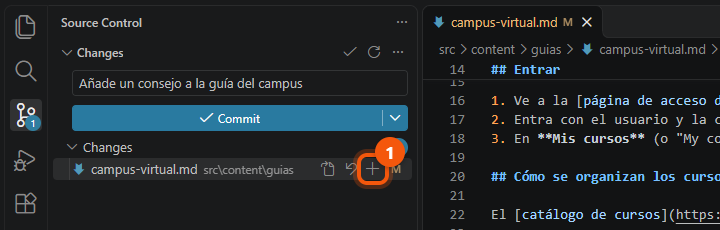
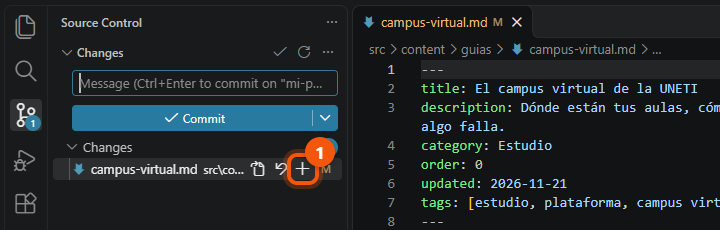
docs: address the review of the Git guide
- Use one example throughout, matching the screenshots.
- Replace the pull request screenshots with ones taken from a fork.
- Add a note and a name table for VS Code in Spanish.
- Explain how to edit a guide safely: Markdown, the frontmatter and
  the side preview, with a new screenshot.
- Install VS Code before Git, add the git push equivalent and fix
  smaller wording issues.

diff --git a/src/content/guias/git-y-github-desde-cero.md b/src/content/guias/git-y-github-desde-cero.md
@@ -55,7 +55,15 @@ Y al revés: `git pull` trae a tu carpeta lo que otras personas hayan subido.
 
 ## Lo que necesitas
 
-### 1. Git
+### 1. Visual Studio Code
+
+Entra en [code.visualstudio.com/download](https://code.visualstudio.com/download), descarga la versión para tu sistema e instálala con las opciones por defecto.
+
+![Página de descarga de Visual Studio Code con el botón de Windows resaltado](../../assets/guias/git/descarga-vscode.png)
+
+*Es gratuito. No lo confundas con «Visual Studio», que es otro programa.*
+
+### 2. Git
 
 Entra en [git-scm.com/install/windows](https://git-scm.com/install/windows) y pulsa **Click here to download**.
 
@@ -65,7 +73,7 @@ Entra en [git-scm.com/install/windows](https://git-scm.com/install/windows) y pu
 
 Abre el instalador. Casi todas las pantallas se dejan como vienen: pulsa **Next**. Fíjate en dos:
 
-- **Choosing the default editor:** elige **Use Visual Studio Code as Git's default editor**.
+- **Choosing the default editor:** elige **Use Visual Studio Code as Git's default editor**. Por eso instalamos VS Code primero.
 - **Choose a credential helper:** deja marcado **Git Credential Manager**. Es lo que guarda tu sesión de GitHub.
 
 ![Instalador de Git en la pantalla «Choose a credential helper», con Git Credential Manager marcado](../../assets/guias/git/instalador-git.png)
@@ -73,14 +81,6 @@ Abre el instalador. Casi todas las pantallas se dejan como vienen: pulsa **Next*
 *Captura: proyecto [Git Credential Manager](https://github.com/git-ecosystem/git-credential-manager), licencia MIT.*
 
 > **macOS y Linux:** en macOS, abre la Terminal y escribe `git --version`; si no está instalado, el sistema te ofrecerá instalarlo. En Linux, usa el gestor de paquetes, por ejemplo `sudo apt install git`.
-
-### 2. Visual Studio Code
-
-Entra en [code.visualstudio.com/download](https://code.visualstudio.com/download), descarga la versión para tu sistema e instálala con las opciones por defecto.
-
-![Página de descarga de Visual Studio Code con el botón de Windows resaltado](../../assets/guias/git/descarga-vscode.png)
-
-*Es gratuito. No lo confundas con «Visual Studio», que es otro programa.*
 
 ### 3. Una cuenta de GitHub
 
@@ -90,13 +90,24 @@ Entra en [code.visualstudio.com/download](https://code.visualstudio.com/download
 
 *Correo (1), contraseña (2) y usuario (3); luego, **Create account** (4). El registro es gratuito.*
 
-2. Activa la **verificación en dos pasos** en **Settings → Password and authentication**. GitHub la exige para contribuir, y protege tu cuenta.
+2. Activa la **verificación en dos pasos** en **Settings → Password and authentication**. GitHub te la pedirá cuando empieces a subir código, y protege tu cuenta.
 
 ![Sección «Two-factor authentication» de los ajustes de GitHub, con la app de autenticación configurada](../../assets/guias/git/verificacion-dos-pasos.png)
 
-*Elige «Authenticator app» y usa una app como Google Authenticator o Authy. Cuando está activa, aparece «Enabled».*
+*Si aún no la tienes, verás el botón **Enable two-factor authentication**. Elige «Authenticator app» y usa una app como Google Authenticator o Authy. Así se ve cuando ya está activa.*
 
 ## Conoce VS Code
+
+> **VS Code en español.** La primera vez que lo abras, VS Code puede ofrecerte instalar el paquete de idioma español. Te recomendamos dejarlo en inglés: las capturas de esta guía y casi toda la documentación están en inglés. Si ya lo tienes en español, estos son los nombres que verás:
+>
+> | En inglés | En español |
+> | --- | --- |
+> | Source Control | Control de código fuente |
+> | Changes / Staged Changes | Cambios / Cambios almacenados provisionalmente |
+> | Commit | Confirmar |
+> | Publish Branch / Sync Changes | Publicar rama / Sincronizar cambios |
+> | Create new branch... | Crear nueva rama... |
+> | Clone Git Repository... | Clonar repositorio Git... |
 
 Solo vas a usar cuatro partes de la ventana:
 
@@ -180,7 +191,7 @@ Un **pull request** (PR) es la propuesta que haces para que tus cambios entren e
 
 ## Práctica: tu primera contribución
 
-Vas a proponer un cambio pequeño a una guía de esta web: corregir una errata o añadir un dato útil. Todo desde VS Code.
+Vas a proponer un cambio pequeño a una guía de esta web. En el ejemplo, añadimos un consejo al final de la guía del campus virtual; tú puedes corregir una errata o añadir un dato útil en la guía que prefieras. Todo desde VS Code.
 
 ### 1. Clona el repositorio
 
@@ -220,7 +231,7 @@ Escribe un nombre corto, en minúsculas y con guiones, y pulsa `Enter`:
 
 ![Cuadro de VS Code con el nombre de la rama mi-primer-cambio escrito](../../assets/guias/git/vsc-rama-nombre.png)
 
-*Un buen nombre dice qué vas a hacer: `corrige-enlace-campus`.*
+*Para tus próximos cambios, usa nombres que digan qué haces, como `corrige-enlace-campus`.*
 
 La barra inferior ahora muestra tu rama. Todo lo que hagas desde aquí queda en ella.
 
@@ -234,7 +245,16 @@ En la terminal: `git switch -c mi-primer-cambio`
 
 ### 3. Haz tu cambio
 
-En el explorador, abre `src/content/guias/` y luego la guía que quieres mejorar. Haz tu cambio y guarda con `Ctrl+S`.
+En el explorador, abre `src/content/guias/` y luego la guía que quieres mejorar. Las guías están escritas en **Markdown**, un formato de texto sencillo: `**negrita**`, `## Título`, `- lista` y `[texto](enlace)`.
+
+![VS Code con una guía abierta: el encabezado entre líneas --- señalado a la izquierda y la vista previa a la derecha](../../assets/guias/git/vsc-markdown.png)
+
+*Pulsa `Ctrl+K` y luego `V` para ver la vista previa al lado mientras escribes.*
+
+1. **El encabezado** (entre las dos líneas `---`) son los datos de la guía. No lo toques, salvo para poner la fecha de hoy en `updated`.
+2. **La vista previa** muestra cómo quedará el texto. Si algo se ve raro ahí, también se verá raro en la web.
+
+Haz tu cambio debajo del encabezado y guarda con `Ctrl+S`. Para crear una guía nueva, sigue las [instrucciones para contribuir](https://github.com/Sethprie/uneti-web/blob/master/CONTRIBUTING.md).
 
 Ve al panel de **Control de código fuente**. Tu archivo aparece en **Changes**, con una **M** de «modificado».
 
@@ -258,13 +278,13 @@ En la terminal, `git status` te dice lo mismo:
 
 ![Panel de control de código fuente con el mensaje del commit escrito y el botón Commit resaltado](../../assets/guias/git/vsc-commit.png)
 
-*Un buen mensaje dice qué cambia: «Corrige el enlace del campus».*
+*Un buen mensaje dice qué cambia, en pocas palabras: «Añade un consejo a la guía del campus».*
 
 En la terminal:
 
 ```sh
 git add src/content/guias/campus-virtual.md
-git commit -m "Corrige el enlace del campus"
+git commit -m "Añade un consejo a la guía del campus"
 ```
 
 ### 5. Publica tu rama
@@ -287,25 +307,27 @@ Como no tienes permiso para subir al proyecto original, VS Code te ofrece crear 
 
 *Solo pasa la primera vez. Las siguientes, tu rama va directa a tu fork.*
 
+En la terminal: `git push -u origin mi-primer-cambio`. Ojo: este comando **no crea el fork**. Úsalo solo cuando VS Code ya lo haya creado, o para subir cambios nuevos después.
+
 ### 6. Abre el pull request
 
 Cuando el fork está listo, VS Code te avisa. Pulsa **Create PR**.
 
 ![Aviso de VS Code: el fork tu-usuario/uneti-web se creó, con el botón Create PR resaltado](../../assets/guias/git/vsc-fork-creado.png)
 
-*Si cerraste el aviso, entra en tu fork en GitHub: verás un botón amarillo «Compare & pull request».*
+*Si cerraste el aviso, entra en tu fork en GitHub: verás una franja amarilla con el botón verde **Compare & pull request**.*
 
 Se abre GitHub en el navegador. Revisa el título, explica en la descripción qué cambiaste y por qué, y pulsa **Create pull request**.
 
-![Página de GitHub para abrir un pull request, con el título y el botón «Create pull request» resaltados](../../assets/guias/git/abrir-pull-request.png)
+![Página de GitHub para abrir un pull request desde tu fork hacia Sethprie/uneti-web, con el título y el botón «Create pull request» resaltados](../../assets/guias/git/abrir-pull-request.png)
 
-*El título se rellena con el mensaje de tu commit.*
+*Arriba se ve que propones los cambios de tu fork (`tu-usuario/uneti-web`) al original (`Sethprie/uneti-web`). El título se rellena con el mensaje de tu commit.*
 
 ## Después del pull request
 
-![Pull request abierto en GitHub, con la etiqueta verde «Open»](../../assets/guias/git/pull-request-abierto.png)
+![Pull request abierto en GitHub desde tu fork, con la etiqueta verde «Open» resaltada](../../assets/guias/git/pull-request-abierto.png)
 
-*Recibirás un aviso por correo cuando alguien comente.*
+*«Open» significa que espera revisión. Recibirás un aviso por correo cuando alguien comente.*
 
 - **Si te piden ajustes:** haz los cambios en la misma rama, commit y pulsa **Sync Changes** en el panel de Git. El pull request se actualiza solo.
 - **Cuando lo aceptan:** tu cambio llega a `master` y se publica en la web.
